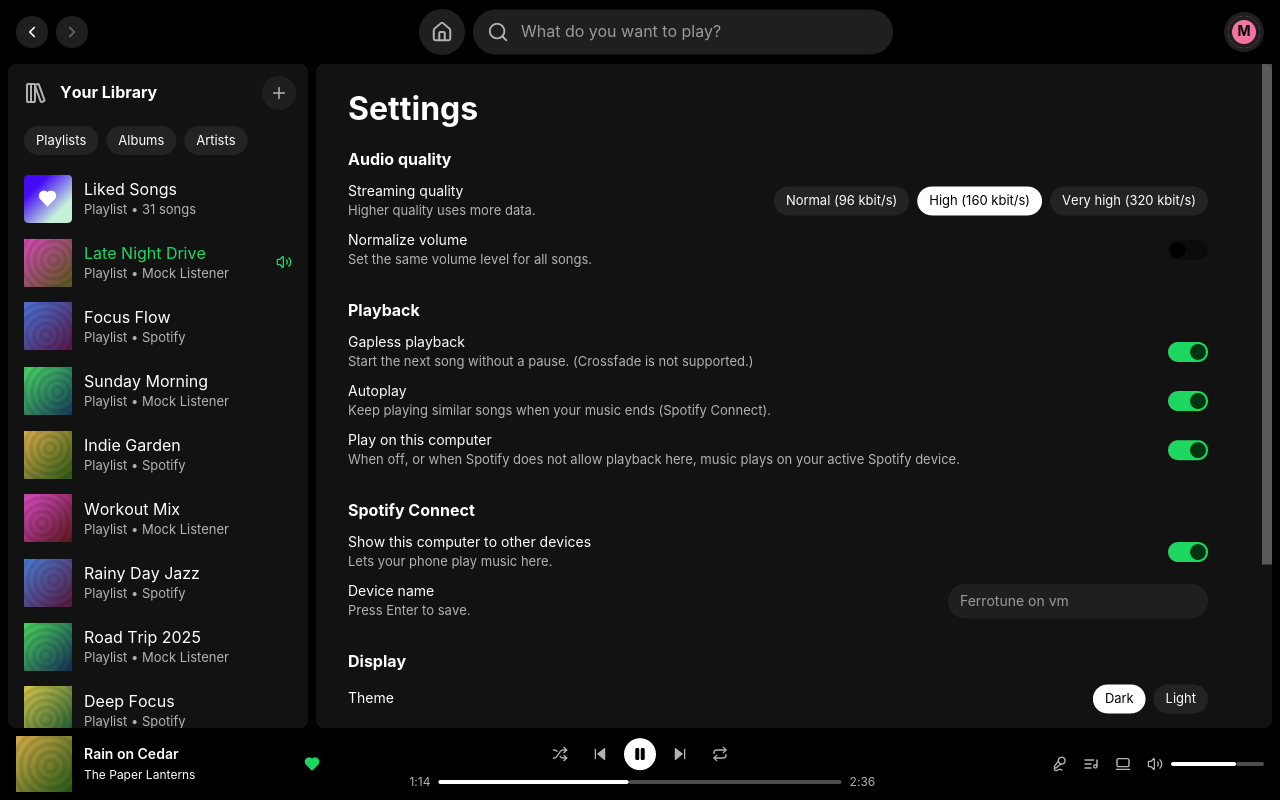
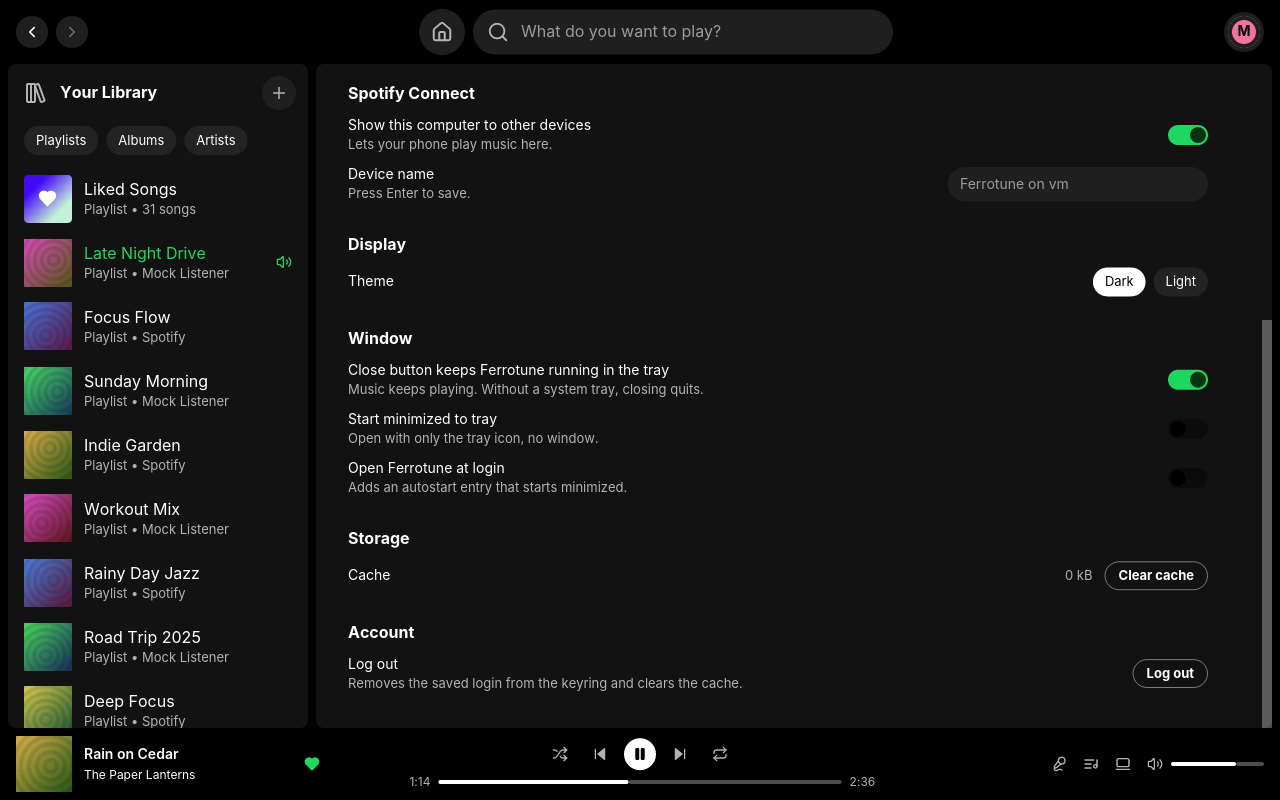
docs(tray): architecture, README, lessons and settings screenshot
Claude-Session: https://claude.ai/code/session_011GZUAJAc8TohrBZJFGozGm

diff --git a/docs/architecture.md b/docs/architecture.md
@@ -260,11 +260,27 @@ protobuf, pathfinder GraphQL, over `reqwest`). The public Web API is not used.
 | `net/` | `session.rs` (librespot session, Connect device, `LiveAuth`), `client.rs` (authenticated HTTP: cache, coalescing, 429/401 handling), `tokens.rs`, `backend.rs` (Catalog/Library/Search/Home/Lyrics traits), `spclient.rs`, `pathfinder.rs`, `proto.rs` (collection2v2 codec), `types.rs` (wire → domain), `model.rs`, `paging.rs`, `playlist_edit.rs` (playlist4 change bodies), `playback.rs` (local + Connect players, mock engine), `mpris.rs`, `images.rs` |
 | `store/` | `mod.rs`, `schema.sql` (`entity` JSON blobs by kind/id, `kv` settings), `schema_v2.sql` (`http_cache`) |
 | `auth/` | `mod.rs` (AuthState: silent login → browser fallback), `oauth.rs` (PKCE, loopback listener, code exchange), `secrets.rs` |
+| `tray/` | `model.rs` (tray state + `Command`, pure), `sni.rs` (StatusNotifierItem via `ksni`, Linux), `stub.rs` (other OSes: no tray, not implemented), `icon.rs` (app SVG to ARGB pixmaps), `instance.rs` (single-instance Unix socket), `autostart.rs` (XDG autostart entry) |
 | other | `desktop.rs` (.desktop entry + icon installer) |
+
+**Tray and background mode.** The app is an `iced::daemon`. Closing the
+window (with a StatusNotifierWatcher present and "close to tray" on) CLOSES
+it, freeing the renderer; `app/window.rs` is the pure window state machine,
+`app/background.rs` turns its `Action`s into iced window tasks. The librespot
+session, Connect device, playback engine and MPRIS live in `App`, not in the
+window, so they keep running while hidden. The tray menu (Show/Hide,
+Play/Pause, Next, Previous, Start minimized, Quit) sends the same `Ui`
+messages as the player bar, so with a Connect device in control they control
+that device. Scroll over the icon steps the volume. No tray host on the bus
+means closing quits. `--minimized` starts with only the tray; a second launch
+asks the running instance (socket in `$XDG_RUNTIME_DIR`) to show its window.
+Settings: close to tray and start minimized live in `config.json`; "open at
+login" is the existence of `~/.config/autostart/dev.ferro.ferrotune.desktop`.
 
 **Long-lived subscriptions.** Playback engine events
 (`Subscription::run_with(EngineKind, ..)`), MPRIS commands (Linux), a 500 ms
-tick only while playing or a toast is visible.
+tick only while playing or a toast is visible (and the window is shown), the
+tray (`tray::events`) and single-instance "show" requests.
 
 **Screens and navigation.**
 

diff --git a/LESSONS.md b/LESSONS.md
@@ -2,6 +2,18 @@
 
 Things learned while building Ferrotune. Add new entries at the top.
 
+- **Use `ksni` with `async-io`, not its default `tokio` feature.** `ksni/tokio`
+  turns on `zbus/tokio` for the whole build, and then keyring's blocking
+  Secret Service connect panics ("Cannot start a runtime from within a
+  runtime") whenever it runs inside a tokio context (every `#[tokio::test]`
+  that boots a real `App`). `ksni = { default-features = false, features =
+  ["async-io"] }` still shares the single zbus 5 already in the tree.
+- **Hiding to the tray = closing the window.** With `iced::daemon` the
+  renderer is freed (RSS drops ~15 MB under tiny-skia); the daemon keeps
+  running because `exit_on_close_request: false` and the app decides on
+  `CloseRequested`. Also drop decoded cover art and stop the 500 ms tick while
+  hidden. Audio, Connect and MPRIS are unaffected because they live in `App`.
+
 - **librespot hides why a track failed.** `PlayerEvent::Unavailable` has no
   reason; the cause is only in librespot's log. A tracing layer that reads
   librespot's own records (`net/audio_diag.rs`) turned "every song is

diff --git a/README.md b/README.md
@@ -155,6 +155,18 @@ an absolute path to the binary) and
 `~/.local/share/icons/hicolor/scalable/apps/dev.ferro.ferrotune.svg`. The
 same files are in `assets/desktop/` if you prefer to copy them by hand.
 
+### Tray and background mode
+
+On KDE Plasma and other panels with a StatusNotifierItem tray, closing the
+window keeps Ferrotune running in the tray (music, Spotify Connect and the
+media keys keep working). Left click shows or hides the window; the menu has
+Play/Pause, Next, Previous, "Start minimized to tray" and Quit; the wheel over
+the icon changes the volume. Without a tray, closing quits. Settings has
+"Close button keeps Ferrotune running in the tray", "Start minimized to tray"
+and "Open Ferrotune at login" (writes `~/.config/autostart/dev.ferro.ferrotune.desktop`
+with `--minimized`). Launching Ferrotune again shows the running window. The
+tray is Linux only for now; Windows and macOS are not implemented.
+
 ### Optional settings
 
 Nothing is required. `~/.config/ferrotune/config.json` may contain:

diff --git a/CLAUDE.md b/CLAUDE.md
@@ -58,6 +58,10 @@ ubuntu-22.04, and creates GitHub Release `v<Cargo version>` with `ferrotune-v<ve
   its top: add new passive events (hover, scroll, resize) there.
 - Playlist edits are optimistic: keep the `EditSnapshot` rollback path (tested
   in `app/playlists.rs`) when adding new edit kinds.
+- Tray: `ksni` must use `default-features = false, features = ["async-io"]`
+  (its `tokio` feature switches zbus to tokio and breaks keyring's blocking
+  connect). Hiding closes the window (`iced::daemon`); never hide without a
+  registered StatusNotifierWatcher.
 - librespot's `Unavailable` has no reason: `net/audio_diag.rs` reads it from
   librespot's log. Audio key code 1 = Spotify denies local playback for the
   account (librespot #1649); play through Connect, never bypass it.
